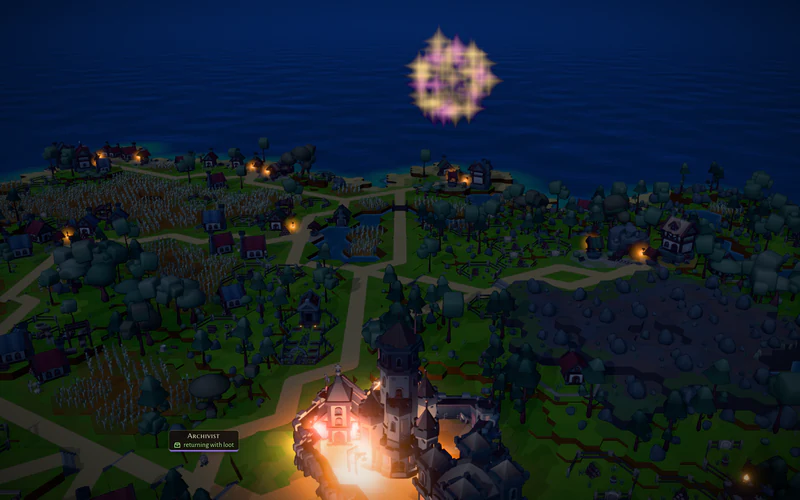
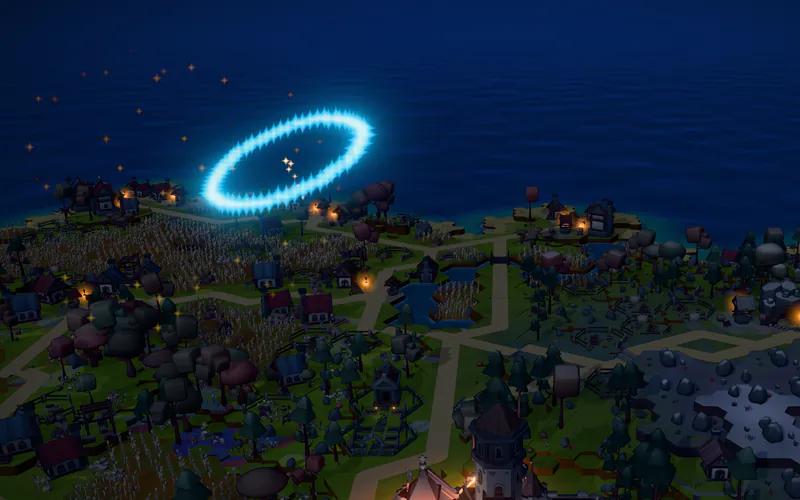
The README's pictures are retaken from today's showcase build (the castle at golden hour, React's island in autumn, the festival, the dragon, the beer garden's toasts, the rising skeleton, the phone, the Studio), with a winter keep and React's Chronicle card added, their alts rewritten to what they 
Claude-Session: https://claude.ai/code/session_01TCJpPhLX9ebrjCdgSBw8VG

diff --git a/README.md b/README.md
@@ -20,7 +20,7 @@
 </p>
 
 <p align="center">
-  <img src=".github/media/v2-hero.webp" alt="The demo guild's castle at golden hour: a stone keep and a great hall inside a curtain wall, forest and fields around it. Six heroes are at work, with chips over their heads ('Artisan II, editing', 'Architect, returning with loot'), portraits in the face bar at the top left, the chronicle at the bottom left and a caption reading 'The Guildmaster sends the Artisan, the Artisan II and the Archivist out at once.'" width="100%" />
+  <img src=".github/media/v2-hero.webp" alt="The demo guild's castle at golden hour: a stone keep and a great hall inside a curtain wall, the village, fields and the graveyard behind it. Heroes are coming home, with chips over their heads ('Artisan II, returning with loot', 'Artisan, returning with loot', 'Architect, home with loot', 'Guildmaster, dispatching'), six portraits in the face bar at the top left, the chronicle at the bottom left ('Guildmaster sends a quest: Verify against the contract', 'Warden joins the party') and a caption reading 'The Artisan returns with the loot: Lookahead row added; boundary test passes.'" width="100%" />
 </p>
 
 Guildhall turns what happens in a repository into a world you can watch. The repo's folders and
@@ -48,9 +48,25 @@ castle that grows with the repo, and a world built off the main thread.
   orbits around the hero you follow.
 
 <p align="center">
-  <img src=".github/media/v2-react.webp" alt="React's repository as a hex island seen from the sea: villages and towns labelled with its packages (compiler, 4,253 files, capital; react-dom, react-reconciler, react-devtools-shared and more), roads between them, rivers, lakes, forest and a mine." width="100%" />
+  <img src=".github/media/v2-react.webp" alt="React's repository as a hex island in autumn, seen from the sea: villages and towns labelled with its packages (compiler, 4,253 files, capital; react-dom, react-reconciler, react-devtools-shared, scripts as a mine, fixtures as a camp and more), roads between them, rivers, lakes and orange and green woods, with the timeline at the bottom: Watch it grow, 12 Oct 2026, 1,954 contributors, 7,254 files." width="100%" />
   <br /><sub>React's island at <a href="https://guildhall.codestz.dev/hall/facebook/react">/hall/facebook/react</a>.</sub>
 </p>
+
+The island keeps the seasons: a hall takes them from its own timeline, so Watch it grow turns the
+years, and a demo story keeps its own. Places live with the work: one being read glows warm, one being
+edited raises its scaffold, and one failing is blighted until the fix lands. **Share island**, in the
+crest menu, draws the island as it stands today into a Chronicle card to download or link.
+
+<table>
+  <tr>
+    <td width="50%"><img src=".github/media/v2-winter.webp" alt="The keep in winter during the World events demo: snow on the roofs, the walls and the fields, low sun, and chips over the heroes in the yard ('Artisan II, editing hexworld/shows.ts', 'Illuminator, editing shows/festival.ts', 'Guildmaster, dispatching')." width="100%" /></td>
+    <td width="50%"><img src=".github/media/v2-share.webp" alt="React's Chronicle card, landscape, as Share island draws it: 'The Chronicle of react/react, since May 2013, 13 years', 13 years, 19.1k commits, 1,954 contributors, 130 releases, 37 places, 7,254 files, three lines of its history, and the autumn island beside them." width="100%" /></td>
+  </tr>
+  <tr>
+    <td valign="top"><sub><strong>Winter.</strong> The World events demo is told in the snow.</sub></td>
+    <td valign="top"><sub><strong>Share island.</strong> React's Chronicle card, landscape.</sub></td>
+  </tr>
+</table>
 
 ## The island answers
 
@@ -61,10 +77,10 @@ one in turn.
 
 <table>
   <tr>
-    <td width="25%"><img src=".github/media/v2-strip-fireworks.webp" alt="Night over the island: a gold and rose firework bursting above the lit keep and village." width="100%" /></td>
-    <td width="25%"><img src=".github/media/v2-strip-dragon.webp" alt="A red dragon flying over the coast and the mountains in the rain." width="100%" /></td>
-    <td width="25%"><img src=".github/media/v2-strip-tavern.webp" alt="The tavern's beer garden at eight in the evening: patrons round the tables under a glowing lamp, a song line over them." width="100%" /></td>
-    <td width="25%"><img src=".github/media/v2-strip-skeleton.webp" alt="A skeleton warrior rising from a grave among the headstones of the graveyard." width="100%" /></td>
+    <td width="25%"><img src=".github/media/v2-strip-fireworks.webp" alt="Night over the island in the Saga's festival: a blue ring firework above the dark sea and the lamplit village, the keep lit at the bottom." width="100%" /></td>
+    <td width="25%"><img src=".github/media/v2-strip-dragon.webp" alt="A red dragon flying in the rain over a grey sea and the snowy coast of the island." width="100%" /></td>
+    <td width="25%"><img src=".github/media/v2-strip-tavern.webp" alt="The tavern's beer garden at eight in the evening: patrons round the tables in lamplight, toasting ('Another round!', 'To the guild!')." width="100%" /></td>
+    <td width="25%"><img src=".github/media/v2-strip-skeleton.webp" alt="A horned skeleton warrior rising from a grave among the headstones of the graveyard, autumn trees and fields behind." width="100%" /></td>
   </tr>
   <tr>
     <td valign="top"><sub><strong>Fireworks.</strong> Fifteen clean deeds earn a festival at nightfall.</sub></td>
@@ -201,7 +217,7 @@ short:
 ## On your phone
 
 <p align="center">
-  <img src=".github/media/v2-phone.webp" alt="The island on a phone, 390 pixels wide: the castle at golden hour, a caption at the bottom and a bar of six hero portraits, with the crest, the party's name and a menu button along the top." width="260" />
+  <img src=".github/media/v2-phone.webp" alt="The island on a phone, 390 pixels wide: the keep and the great hall at golden hour with the Guildmaster's chip and knights in the yard, the caption 'The Guildmaster sends the Artisan, the Artisan II and the Archivist out at once.' and a face bar of five hero portraits and +1 at the bottom, with the crest, the party's name and a menu button along the top." width="260" />
 </p>
 
 The same site works at 390 px wide. The top row is the crest, the repo and a menu. The menu opens
@@ -212,7 +228,7 @@ like the desktop.
 ## The Studio
 
 <p align="center">
-  <img src=".github/media/v2-studio.webp" alt="The Studio's home: 'Guildhall Studio, Events in. A living world out.', a live tile preview of a canteen with its beer garden, and counts: 1,525 pieces, 17 packs, 82 tile prefabs, 232 activity spots, 310 animation clips." width="100%" />
+  <img src=".github/media/v2-studio.webp" alt="The Studio's home: 'Guildhall Studio, Events in. A living world out.', the read-only badge in the top bar, a live tile preview of a canteen with its beer garden, and counts: 1,568 pieces, 18 packs, 83 tile prefabs, 234 activity spots, 132 animation clips." width="100%" />
 </p>
 
 The Studio is where the world is made: pieces and palette at true scale, the tile composer, the hex
@@ -228,7 +244,8 @@ must not change what you see**.
 - LOD switches only where the difference is under about a pixel, and crossfades over a band; every
   threshold has a gap between switching in and out, so nothing pops or flickers.
 - The governor holds a 12 ms frame by trading resolution, a quarter step of pixel ratio at a time.
-  It never overrides a quality you pick in Settings.
+  It never overrides a quality you pick in Settings, and Settings → Motion holds the frame rate to
+  Auto, Smooth 30 or Max.
 - Shadow cascades re-aim only when the camera leaves an inner area, so panning costs what standing
   still does.
 - Placed pieces are batched per material, the crowd draws from one baked bone texture, and the
